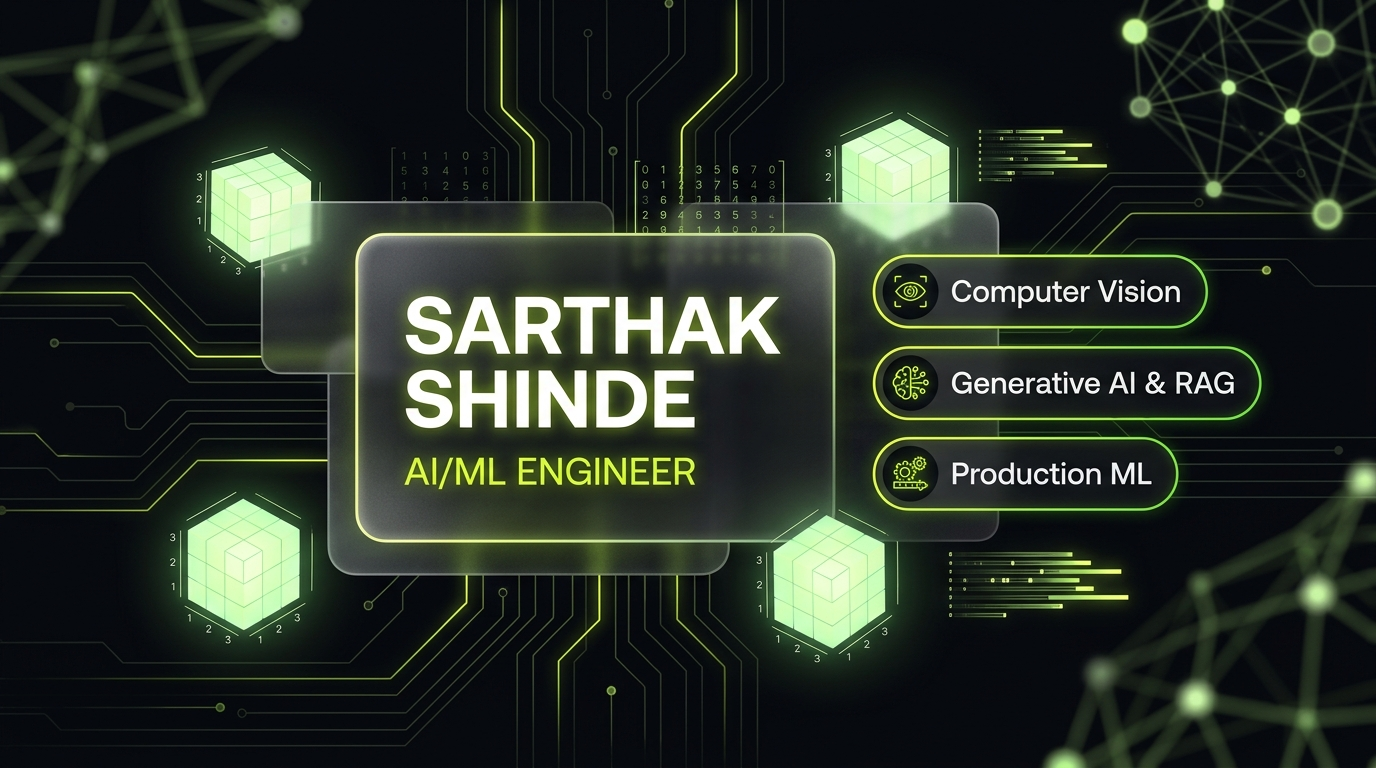
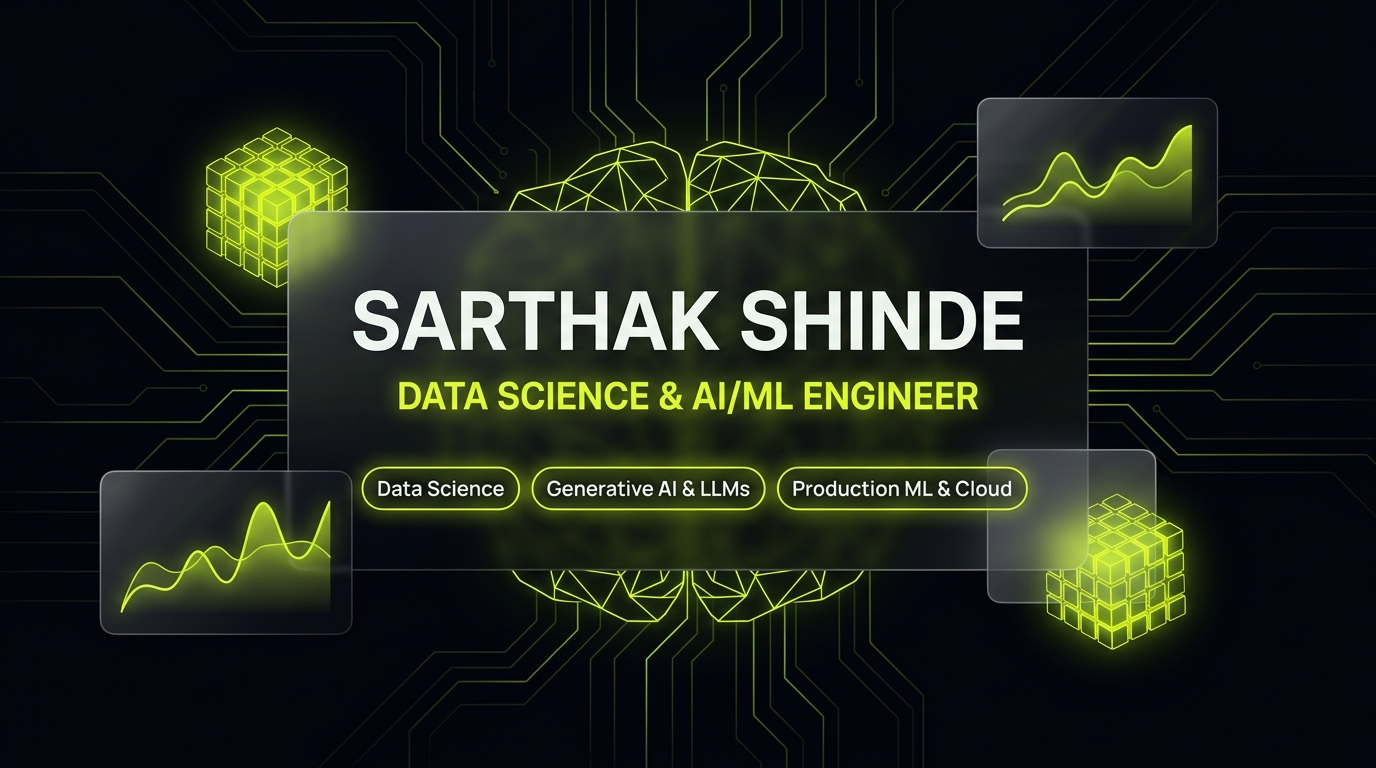
Update LinkedIn thumbnail with Data Science badges and refine metadata

diff --git a/index.html b/index.html
@@ -3,10 +3,10 @@
 <head>
 <meta charset="UTF-8">
 <meta name="viewport" content="width=device-width, initial-scale=1.0">
-<title>Sarthak Shinde — AI/ML Engineer</title>
-<meta name="description" content="Sarthak Shinde — AI/ML Engineer based in Pune. Computer Vision (OpenCV/OCR), Generative AI (RAG/LangChain), and Production ML Deployment. AWS Certified Cloud Practitioner.">
-<meta property="og:title" content="Sarthak Shinde — AI/ML Engineer">
-<meta property="og:description" content="I build applied AI systems that actually run — from OpenCV OCR pipelines at Tata Motors to Dockerized RAG and No-Code ML platforms.">
+<title>Sarthak Shinde — Data Science & AI/ML Engineer</title>
+<meta name="description" content="Sarthak Shinde — Data Science & AI/ML Engineer based in Pune. Data Science, Generative AI (RAG/LangChain), and Production ML Deployment. AWS Certified Cloud Practitioner.">
+<meta property="og:title" content="Sarthak Shinde — Data Science & AI/ML Engineer">
+<meta property="og:description" content="I build applied AI and data systems that actually run — from enterprise ML pipelines to Dockerized RAG and No-Code ML platforms.">
 <meta property="og:type" content="website">
 <meta property="og:image" content="linkedin-featured-thumbnail.png">
 <meta property="og:image:width" content="1200">
